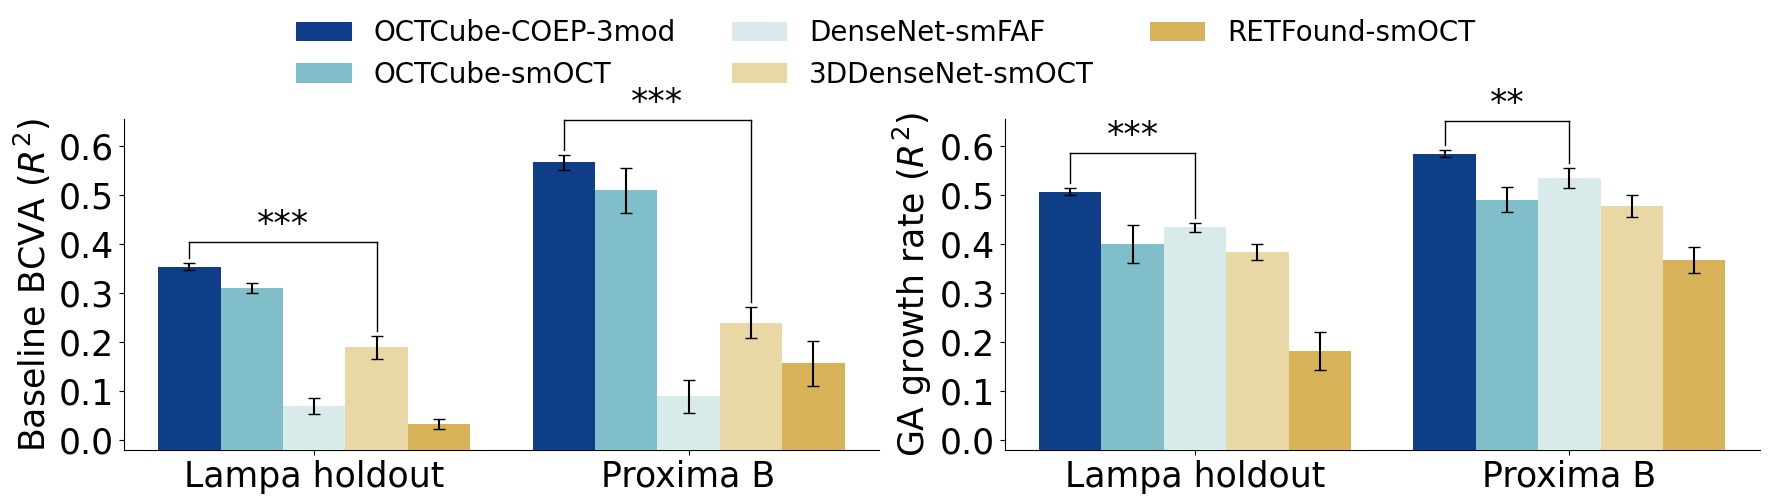
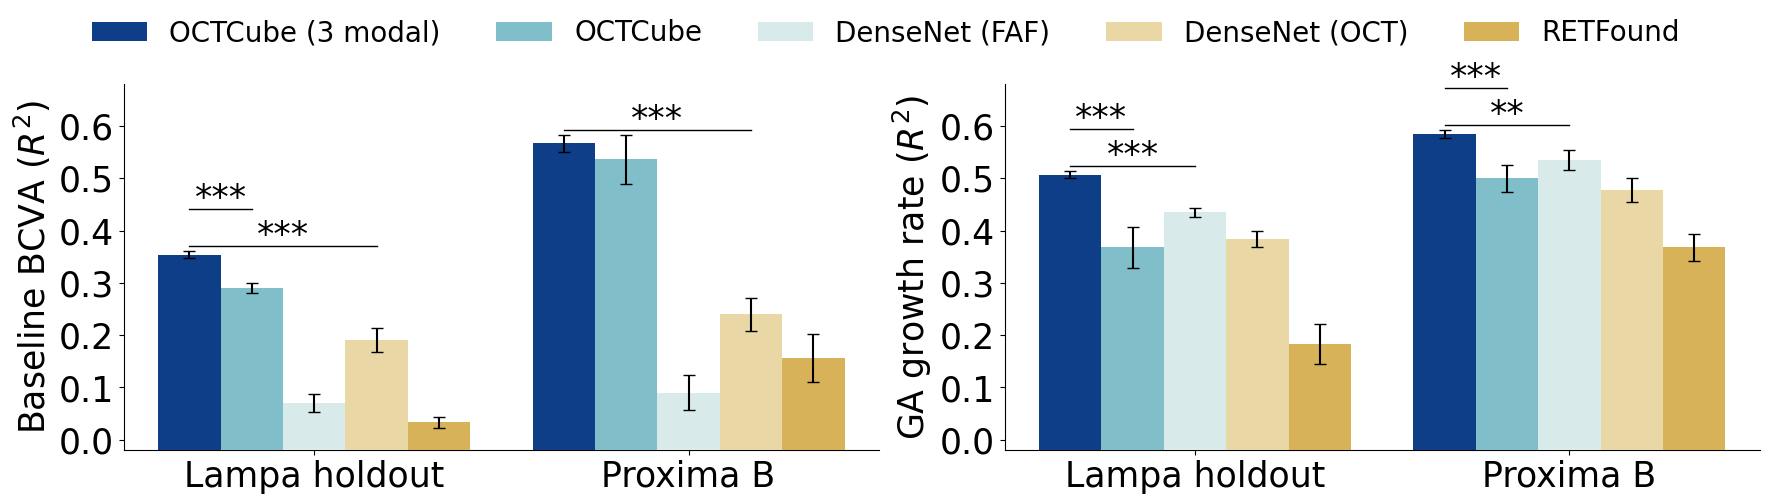
update ga prog barplot

diff --git a/GA_prog_data_cls_plot_top5_allinonebar.py b/GA_prog_data_cls_plot_top5_allinonebar.py
@@ -25,15 +25,26 @@ GA_prog_GAGrowth_std_res_df = pd.read_csv(GA_prog_GAGrowth_std_res)
 print(GA_prog_BCVA_mean_res_df)
 print(GA_prog_GAGrowth_mean_res_df)
 
+# PLOT_METHODS_NAME = {
+#     'OCTCube-COEP-3mod': "OCTCube-COEP-3mod",
+#     'OCTCube-COEP-smOCT': "OCTCube-COEP-smOCT",
+#     'OCTCube-3mod': "OCTCube-3mod",
+#     'OCTCube-smOCT': "OCTCube-smOCT",
+#     'FAF-DenseNet': "DenseNet-smFAF",
+#     'OCT-DenseNet3D': "3DDenseNet-smOCT",
+#     'RETFound-3mod': "RETFound-3mod",
+#     'RETFound-smOCT': "RETFound-smOCT",
+# }
+
 PLOT_METHODS_NAME = {
-    'OCTCube-COEP-3mod': "OCTCube-COEP-3mod",
+    'OCTCube-COEP-3mod': "OCTCube (3 modal)",
     'OCTCube-COEP-smOCT': "OCTCube-COEP-smOCT",
     'OCTCube-3mod': "OCTCube-3mod",
-    'OCTCube-smOCT': "OCTCube-smOCT",
-    'FAF-DenseNet': "DenseNet-smFAF",
-    'OCT-DenseNet3D': "3DDenseNet-smOCT",
+    'OCTCube-smOCT': "OCTCube",
+    'FAF-DenseNet': "DenseNet (FAF)",
+    'OCT-DenseNet3D': "DenseNet (OCT)",
     'RETFound-3mod': "RETFound-3mod",
-    'RETFound-smOCT': "RETFound-smOCT",
+    'RETFound-smOCT': "RETFound",
 }
 GAGrowth_Ours_CNN_pval = {'Lampa holdout': 0.00043, 'Proxima B': 0.00198}
 GAGrowth_Ours_CNN_method_name = {'Lampa holdout': 'OCTCube-COEP-3mod', 'Proxima B': 'FAF-DenseNet'}
@@ -43,6 +54,16 @@ metric_mapping = {
     'GAGrowth': [GAGrowth_Ours_CNN_pval, GAGrowth_Ours_CNN_method_name], 
     'BCVA': [BCVA_Ours_CNN_pval, BCVA_Ours_CNN_method_name]
     }
+
+OURS_METHOD_NANE = 'OCTCube-COEP-3mod'
+GAGrowth_compare_method_name = ['OCTCube-smOCT', 'FAF-DenseNet']
+GAGrowth_compare_pval = {'Lampa holdout': [0.00005, 0.00043], 'Proxima B': [0.00025, 0.00198]}
+BCVA_compare_method_name = ['OCTCube-smOCT', 'OCT-DenseNet3D']
+BCVA_compare_pval = {'Lampa holdout': [7.28e-4, 1.43e-8], 'Proxima B': [0.09, 2.07e-9]}
+compare_method_metric_mapping = {
+    'GAGrowth': [GAGrowth_compare_pval, GAGrowth_compare_method_name], 
+    'BCVA': [BCVA_compare_pval, BCVA_compare_method_name]
+}
 metric_name_mapping = {'GAGrowth': 'GA growth rate', 'BCVA': 'Baseline BCVA'}
 
 # prefix_mapping = {'OCT_to_IR': 'OCT_to_IR', 'IR_to_OCT': 'IR_to_OCT'}
@@ -62,10 +83,13 @@ def plot_retclip_recall_and_mean_rank_metric_inonebar(axes, dataset_exp_res_df, 
     cohort_list = dataset_exp_res_df.columns.tolist()
     cohort_list.remove('Method')
     print(cohort_list)
-    pval_dict, pval_method_name_dict = metric_mapping[metric_name]
-    pval_list = [pval_dict[cohort] for cohort in cohort_list]
-    pval_method_idx = [plot_method.index(pval_method_name_dict[cohort]) for cohort in cohort_list]
-    print(pval_dict, pval_method_idx)
+    # pval_dict, pval_method_name_dict = metric_mapping[metric_name]
+    pval_dict, pval_method_name_dict = compare_method_metric_mapping[metric_name]
+    print(pval_dict, pval_method_name_dict)
+    # exit()
+    # pval_list = [pval_dict[cohort] for cohort in cohort_list]
+    # pval_method_idx = [plot_method.index(pval_method_name_dict[cohort]) for cohort in cohort_list]
+    # print(pval_dict, pval_method_idx)
     # exit()
     all_handles = []
     all_labels = []
@@ -130,26 +154,32 @@ def plot_retclip_recall_and_mean_rank_metric_inonebar(axes, dataset_exp_res_df, 
         #     y_l = [y[1] + np.random.normal(0, 0.01) for _ in range(5)]
         # # print(y_h, y_l)
         # t_stat, p_value = ttest_ind(y_h , y_l)
+        pval_list = pval_dict[cohort]
+        pval_method = pval_method_name_dict
+        delta_list = [0.04, 0.005]
+        for p_idx, p_value in enumerate(pval_list):
+            # p_value = pval_list[i]
+            stars = get_star_from_pvalue(p_value, star=True)
+            print('stars:', stars, p_value)
+            pval_method_name = pval_method[p_idx]
+            pval_method_idx = plot_method.index(pval_method_name)
+            y_h_val = y[0]
+            y_l_val = y[pval_method_idx]    
+            y_std_err_h = std_list[0]
+            y_std_err_l = std_list[pval_method_idx]
 
-        p_value = pval_list[i]
-        stars = get_star_from_pvalue(p_value, star=True)
-        print('stars:', stars, p_value)
-        # print(f'{key_in_results_dict[i]}: {p_value}', stars, y_h, y_l, len(stars))
-        compare_idx = pval_method_idx[1]
-        y_l_val = y[compare_idx]
-        y_h_val = y[pval_method_idx[0]]
-        print(pval_method_idx, y_h_val, y_l_val)
-        delta_y = 0.02
-        line_y = y_h_val + y_std_err + 2 * delta_y
+            print(pval_method_idx, y_h_val, y_l_val)
+            delta_y = delta_list[p_idx]
+            line_y = y_h_val + y_std_err_h + 2 * delta_y
 
-        x1 = width * (i * (len(plot_method) + 1) + 1)
-        x2 = width * (i * (len(plot_method) + 1) + (compare_idx + 1))
+            x1 = width * (i * (len(plot_method) + 1) + 1)
+            x2 = width * (i * (len(plot_method) + 1) + (pval_method_idx + 1))
         
-        if np.mean(y_h_val) > np.mean(y_l_val) and len(stars) > 0:
-            ax.plot([x1, x1], [y_h_val + std_list[pval_method_idx[0]] + 0.5*delta_y, line_y], c=ax.spines['bottom'].get_edgecolor(), linewidth=1)
-            ax.plot([x2, x2], [y_l_val + std_list[pval_method_idx[1]] + 0.5*delta_y, line_y], c=ax.spines['bottom'].get_edgecolor(), linewidth=1)
-            ax.plot([x1, x2], [line_y, line_y], c=ax.spines['bottom'].get_edgecolor(), linewidth=1)
-            ax.text((x1 + x2)/2, line_y, stars, fontsize=25, ha='center', va='bottom', )
+            if np.mean(y_h_val) > np.mean(y_l_val) and len(stars) > 0:
+                # ax.plot([x1, x1], [y_h_val + y_std_err_h + 0.5*delta_y, line_y], c=ax.spines['bottom'].get_edgecolor(), linewidth=1)
+                # ax.plot([x2, x2], [y_l_val + y_std_err_l + 0.5*delta_y, line_y], c=ax.spines['bottom'].get_edgecolor(), linewidth=1)
+                ax.plot([x1, x2], [line_y, line_y], c=ax.spines['bottom'].get_edgecolor(), linewidth=1)
+                ax.text((x1 + x2)/2, line_y, stars, fontsize=25, ha='center')#, va='bottom', )
         if i == 0 and print_ylabels:
             ax.set_ylabel(f'{metric_name_mapping[metric_name]} ($R^2)$', fontsize=25)
 
@@ -164,7 +194,7 @@ def plot_retclip_recall_and_mean_rank_metric_inonebar(axes, dataset_exp_res_df, 
     ax.tick_params(axis='x', which='major', labelsize=25)
     
     y_max = np.max(y)
-    y_max = max(0.645, y_max)
+    y_max = max(0.67, y_max)
     y_min = np.min(y)
     y_min = min(0.1, y_min)
     print('y_max', y_max, 'y_min', y_min)
@@ -194,7 +224,7 @@ def plot_retclip_recall_and_mean_rank_metric_inonebar(axes, dataset_exp_res_df, 
 
 
 
-def plot_retclip_exp_res(fig, ax, dataset_exp_res_df, dataset_exp_res_std_df, plot_method=None, color_selection=None):
+def plot_retclip_exp_res(fig, ax, dataset_exp_res_df, dataset_exp_res_std_df, plot_method=None, color_selection=None, legend_ncol=5, bbox_adjust_ratio=0.85):
     # fig, ax = plt.subplots(figsize=(1.*FIG_WIDTH, 0.7*FIG_HEIGHT), nrows=2, ncols=4)
     # first_row_prefix = 'OCT_to_IR'
     # second_row_prefix = 'IR_to_OCT'
@@ -207,9 +237,9 @@ def plot_retclip_exp_res(fig, ax, dataset_exp_res_df, dataset_exp_res_std_df, pl
     # col_name = 'recall@5'
     # col_name = col_name_list[1]
     plot_retclip_recall_and_mean_rank_metric_inonebar(ax[1], dataset_exp_res_df[1], dataset_exp_res_std_df[1], 'GAGrowth', print_xlabels=False, print_ylabels=True, plot_method=plot_method, color_selection=color_selection)
-    fig.legend(all_handles, all_labels, loc='upper center', bbox_to_anchor=(0.5, 1.012), ncol=3, fontsize=20, frameon=False)
+    fig.legend(all_handles, all_labels, loc='upper center', bbox_to_anchor=(0.5, 1.012), ncol=legend_ncol, fontsize=20, frameon=False)
     # fig.tight_layout(rect=[0, 0.02, 1, 0.95])
-    fig.tight_layout(rect=[0, -0.02, 1, 0.85])
+    fig.tight_layout(rect=[0, -0.02, 1, bbox_adjust_ratio])
     # fig.suptitle('UW-Medicine', fontsize=15, y=0.04)
     return fig, ax, all_handles, all_labels
 
@@ -222,7 +252,7 @@ dataset_exp_res_std_df = [GA_prog_BCVA_std_res_df, GA_prog_GAGrowth_std_res_df]
 plot_methods_used = ['OCTCube-COEP-3mod', 'OCTCube-smOCT', 'FAF-DenseNet', 'OCT-DenseNet3D', 'RETFound-smOCT']
 color_selection = [COLORS_GA_prog_compute[m] for m in plot_methods_used]
 fig, axes = plt.subplots(figsize=(2.5*FIG_WIDTH, 0.7*FIG_HEIGHT), nrows=1, ncols=2)
-plot_retclip_exp_res(fig, axes, dataset_exp_res_df=dataset_exp_res_df, dataset_exp_res_std_df=dataset_exp_res_std_df, plot_method=plot_methods_used, color_selection=color_selection)
+plot_retclip_exp_res(fig, axes, dataset_exp_res_df=dataset_exp_res_df, dataset_exp_res_std_df=dataset_exp_res_std_df, plot_method=plot_methods_used, color_selection=color_selection, bbox_adjust_ratio=0.9)
 fig.savefig(os.path.join(save_file_dir, 'save_figs', 'GA_prog_BCVA_mean_res_ci_together_combine_metric_inonebar_5.png'))
 fig.savefig(os.path.join(save_file_dir, 'save_figs', 'GA_prog_BCVA_mean_res_ci_together_combine_metric_inonebar_5.pdf'), dpi=300)
 
